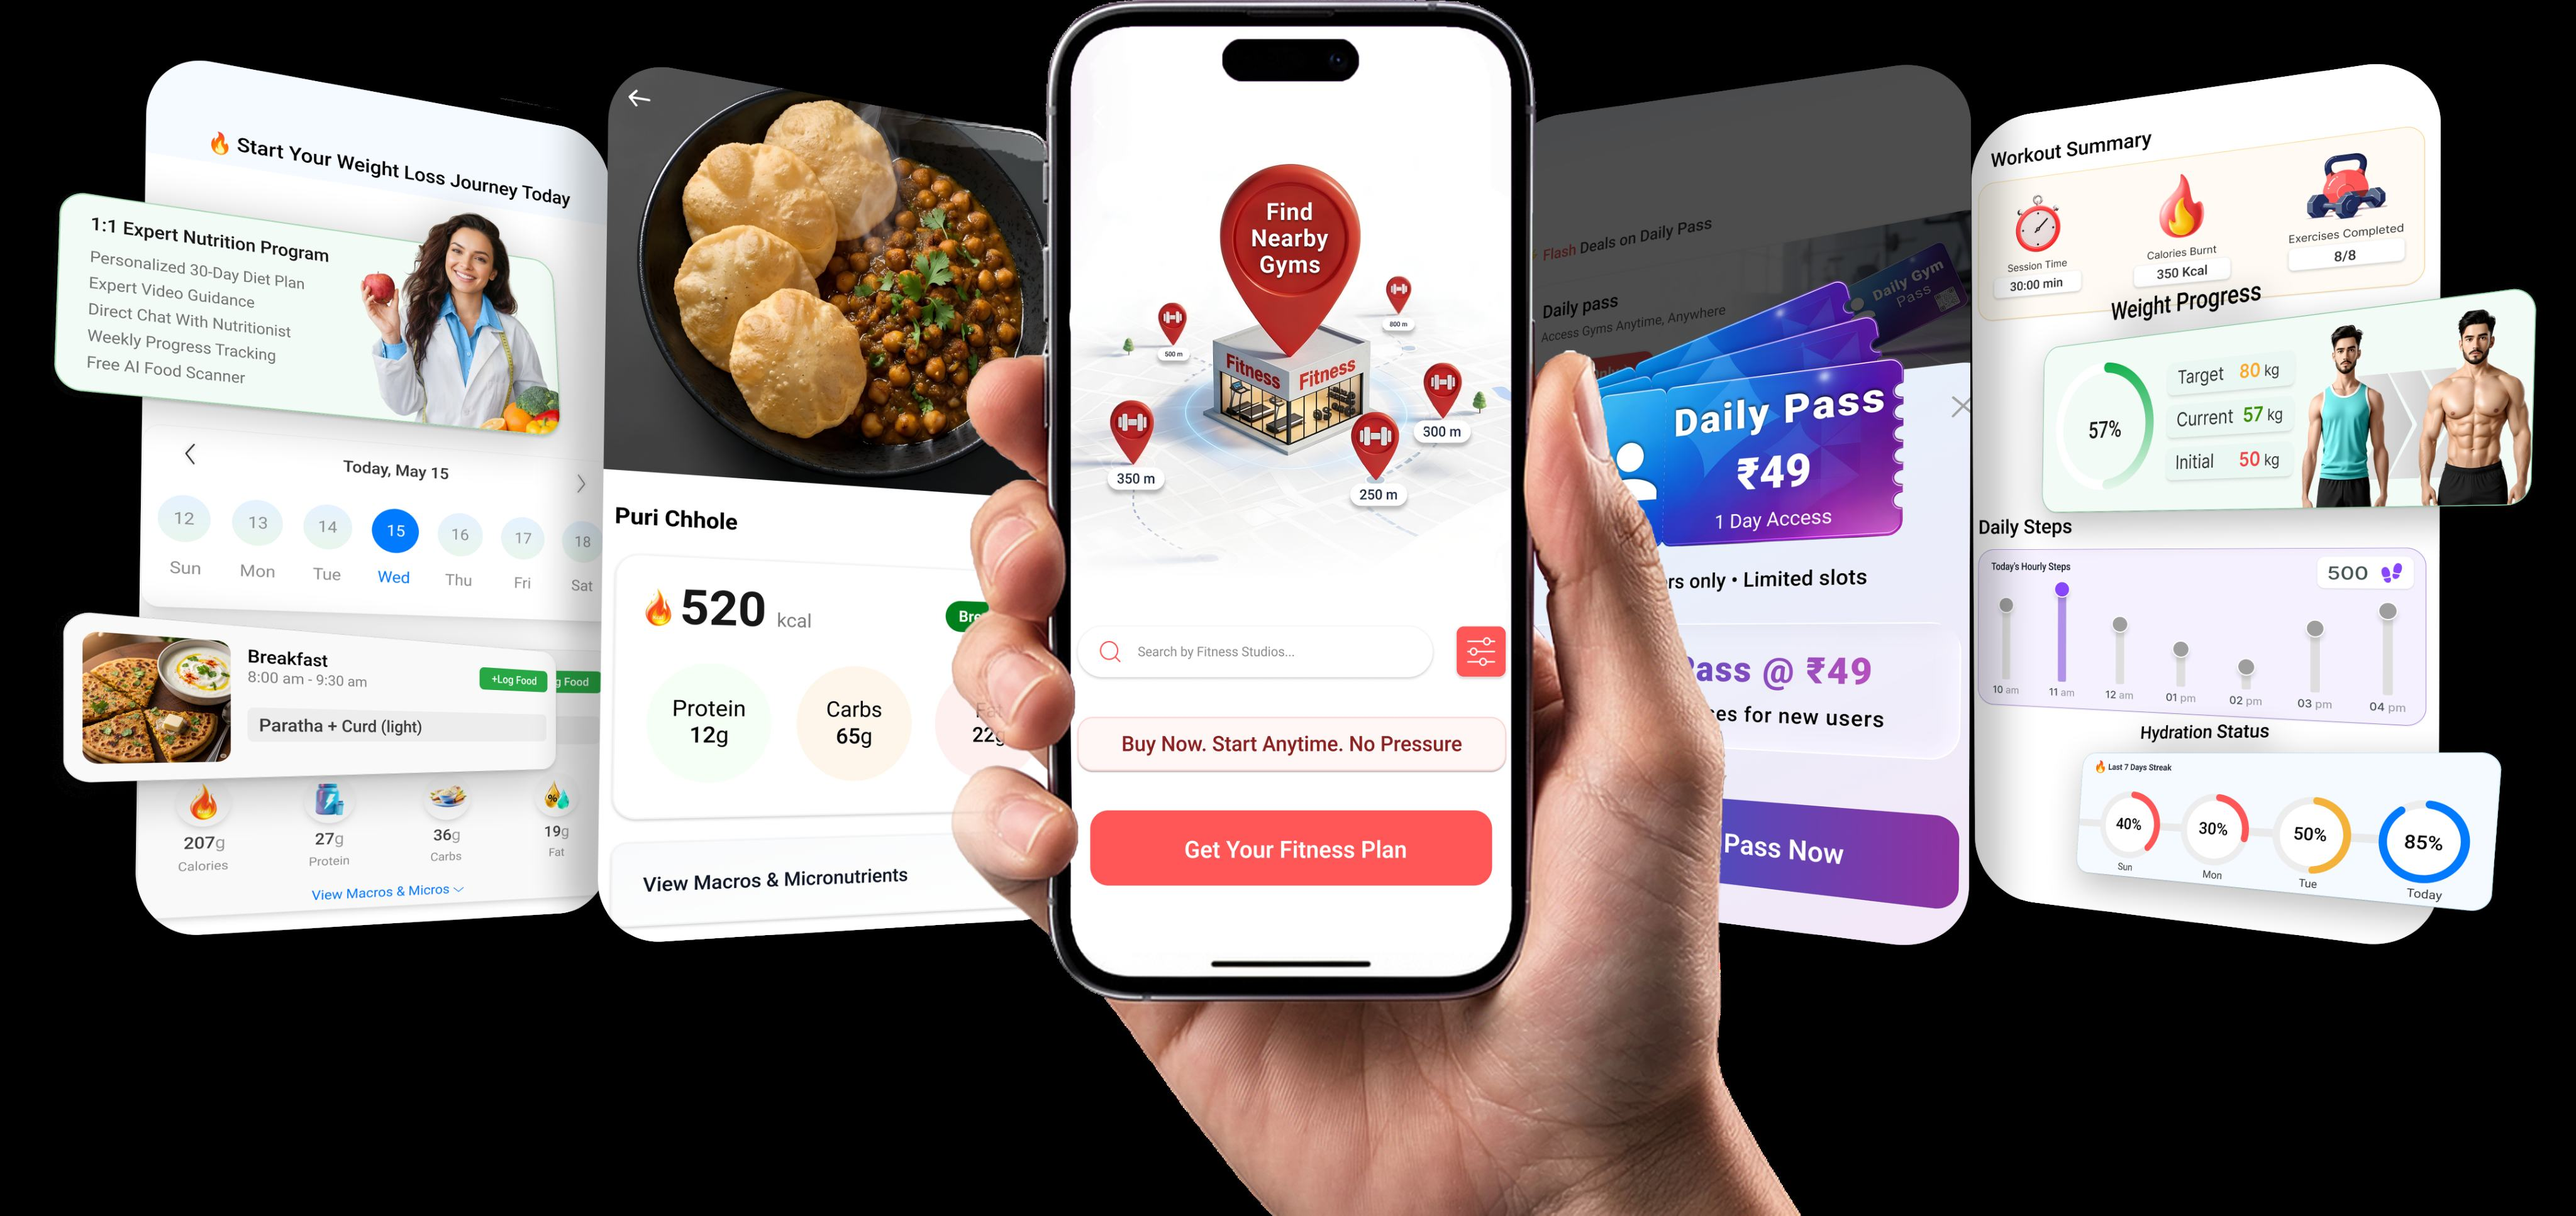
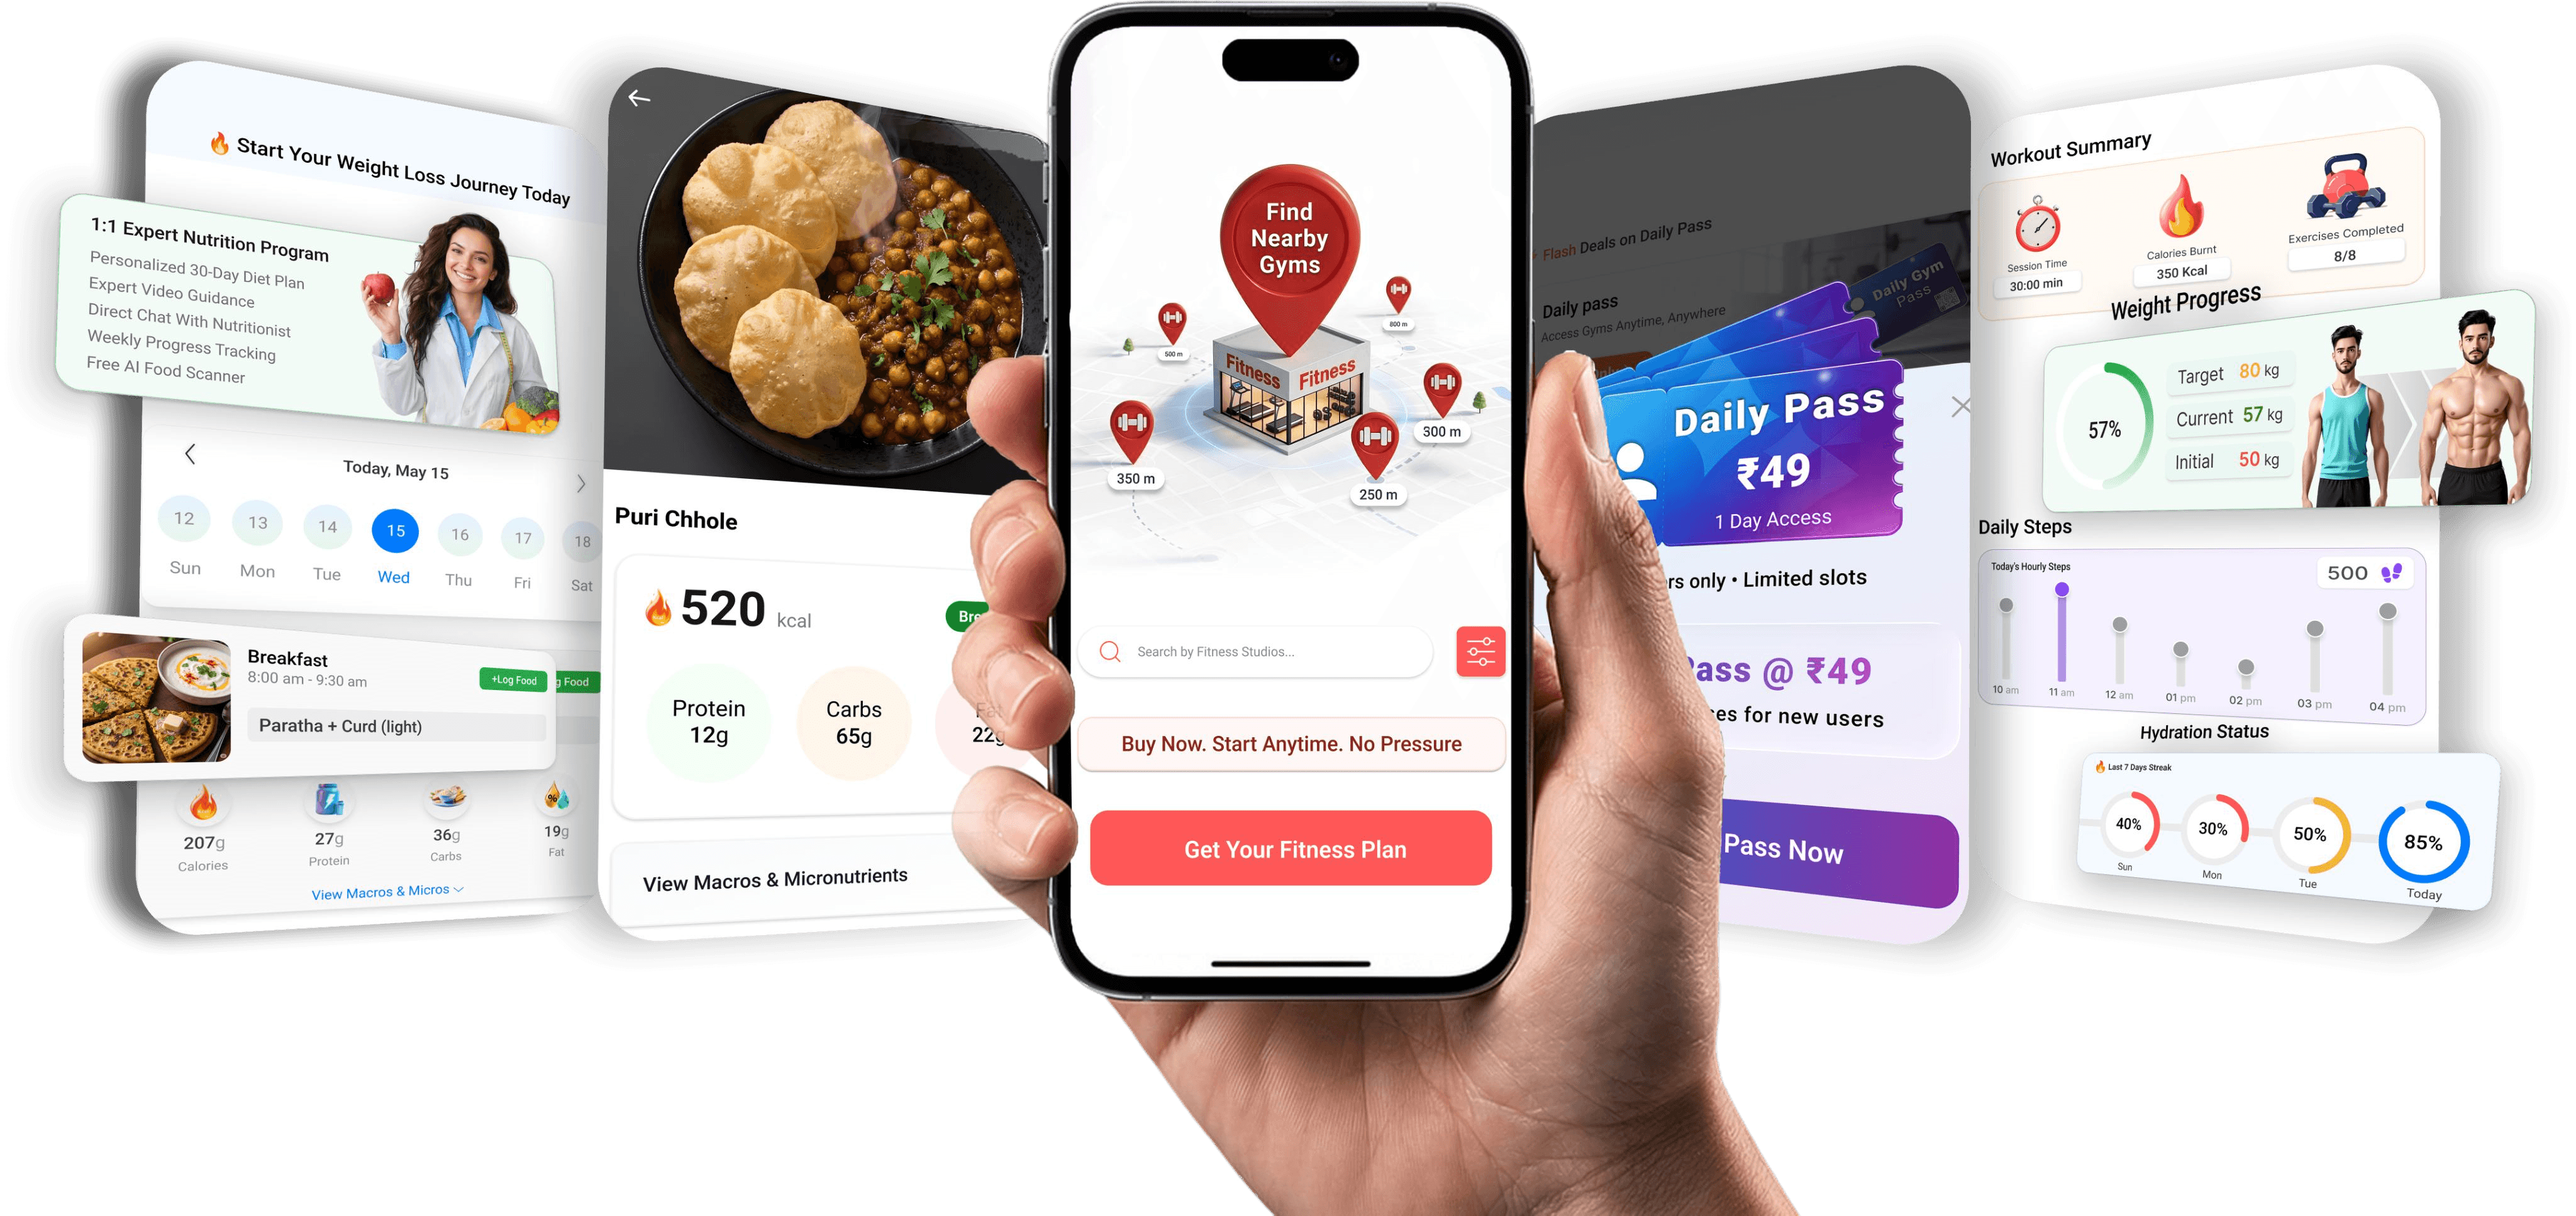
Add transparent RGBA showcase image with Google Play and App Store badges

diff --git a/src/FymbleCaseStudy12.jsx b/src/FymbleCaseStudy12.jsx
@@ -247,6 +247,35 @@ export default function FymbleCaseStudy12({ onBack, onNavigateProject }) {
                 className="cs12-scope-hand-showcase-img"
               />
             </div>
+
+            {/* Bottom-Right Get The App Badges */}
+            <div className="cs12-get-the-app-container">
+              <span className="cs12-get-app-label">Get the APP</span>
+              <div className="cs12-store-badges-row">
+                <a href="#download" className="cs12-store-badge-btn" onClick={(e) => e.preventDefault()}>
+                  <svg viewBox="0 0 24 24" width="18" height="18">
+                    <path d="M3.609 1.814L13.793 12 3.61 22.186c-.237-.23-.385-.568-.385-.947V2.761c0-.379.148-.717.385-.947z" fill="#00D2FF"/>
+                    <path d="M17.186 8.607L13.793 12l3.393 3.393 3.844-2.2c.745-.426.745-1.96 0-2.386l-3.844-2.2z" fill="#FFCE00"/>
+                    <path d="M13.793 12L3.61 1.814c.24-.233.582-.381.964-.381.536 0 1.05.275 1.503.535l11.109 6.639L13.793 12z" fill="#00F076"/>
+                    <path d="M13.793 12l3.393 3.393-11.109 6.639c-.453.26-.967.535-1.503.535-.382 0-.724-.148-.964-.381L13.793 12z" fill="#FF3A44"/>
+                  </svg>
+                  <div className="cs12-store-text">
+                    <span className="cs12-store-sub">GET IT ON</span>
+                    <span className="cs12-store-main">Google Play</span>
+                  </div>
+                </a>
+
+                <a href="#download" className="cs12-store-badge-btn" onClick={(e) => e.preventDefault()}>
+                  <svg viewBox="0 0 24 24" width="18" height="18" fill="currentColor">
+                    <path d="M18.71 19.5c-.83 1.24-1.71 2.45-3.05 2.47-1.34.03-1.77-.79-3.29-.79-1.53 0-2 .77-3.27.82-1.31.05-2.3-1.32-3.14-2.53C4.25 17 2.94 12.45 4.7 9.39c.87-1.52 2.43-2.48 4.12-2.51 1.28-.02 2.5.87 3.29.87.78 0 2.26-1.07 3.81-.91.65.03 2.47.26 3.64 1.98-.09.06-2.17 1.28-2.15 3.81.03 3.02 2.65 4.03 2.68 4.04-.03.07-.42 1.44-1.38 2.83M15.97 6.37c.63-.78 1.06-1.87.94-2.97-.92.04-2.02.62-2.67 1.39-.58.67-1.08 1.77-.95 2.84 1.02.08 2.05-.48 2.68-1.26z"/>
+                  </svg>
+                  <div className="cs12-store-text">
+                    <span className="cs12-store-sub">Download on the</span>
+                    <span className="cs12-store-main">App Store</span>
+                  </div>
+                </a>
+              </div>
+            </div>
           </div>
         </section>
 

diff --git a/src/FymbleCaseStudy12.css b/src/FymbleCaseStudy12.css
@@ -517,9 +517,88 @@
   margin-bottom: 0;
 }
 
+/* Bottom-Right Store Badges */
+.cs12-get-the-app-container {
+  position: absolute;
+  bottom: 24px;
+  right: 28px;
+  display: flex;
+  flex-direction: column;
+  align-items: flex-start;
+  gap: 6px;
+  z-index: 5;
+  background: rgba(10, 10, 16, 0.8);
+  backdrop-filter: blur(12px);
+  border: 1px solid rgba(255, 255, 255, 0.12);
+  padding: 10px 14px;
+  border-radius: 14px;
+  box-shadow: 0 10px 24px rgba(0, 0, 0, 0.5);
+}
+
+.cs12-get-app-label {
+  font-family: 'Roboto', sans-serif;
+  font-size: 11px;
+  font-weight: 700;
+  color: #94a3b8;
+  letter-spacing: 0.4px;
+  text-transform: uppercase;
+}
+
+.cs12-store-badges-row {
+  display: flex;
+  align-items: center;
+  gap: 8px;
+}
+
+.cs12-store-badge-btn {
+  display: inline-flex;
+  align-items: center;
+  gap: 7px;
+  background: rgba(255, 255, 255, 0.05);
+  border: 1px solid rgba(255, 255, 255, 0.12);
+  padding: 6px 10px;
+  border-radius: 8px;
+  text-decoration: none;
+  color: #ffffff;
+  transition: all 0.2s ease;
+}
+
+.cs12-store-badge-btn:hover {
+  background: rgba(255, 255, 255, 0.12);
+  border-color: rgba(255, 255, 255, 0.25);
+  transform: translateY(-2px);
+}
+
+.cs12-store-text {
+  display: flex;
+  flex-direction: column;
+  text-align: left;
+  line-height: 1.1;
+}
+
+.cs12-store-sub {
+  font-size: 8px;
+  font-weight: 500;
+  color: #94a3b8;
+  text-transform: uppercase;
+  letter-spacing: 0.3px;
+}
+
+.cs12-store-main {
+  font-size: 11.5px;
+  font-weight: 700;
+  color: #ffffff;
+  letter-spacing: -0.2px;
+}
+
 @media (max-width: 768px) {
   .cs12-scope-hand-showcase-card {
     padding: 24px 10px 0;
+  }
+  .cs12-get-the-app-container {
+    position: static;
+    margin: 14px auto 16px;
+    align-items: center;
   }
 }
 
